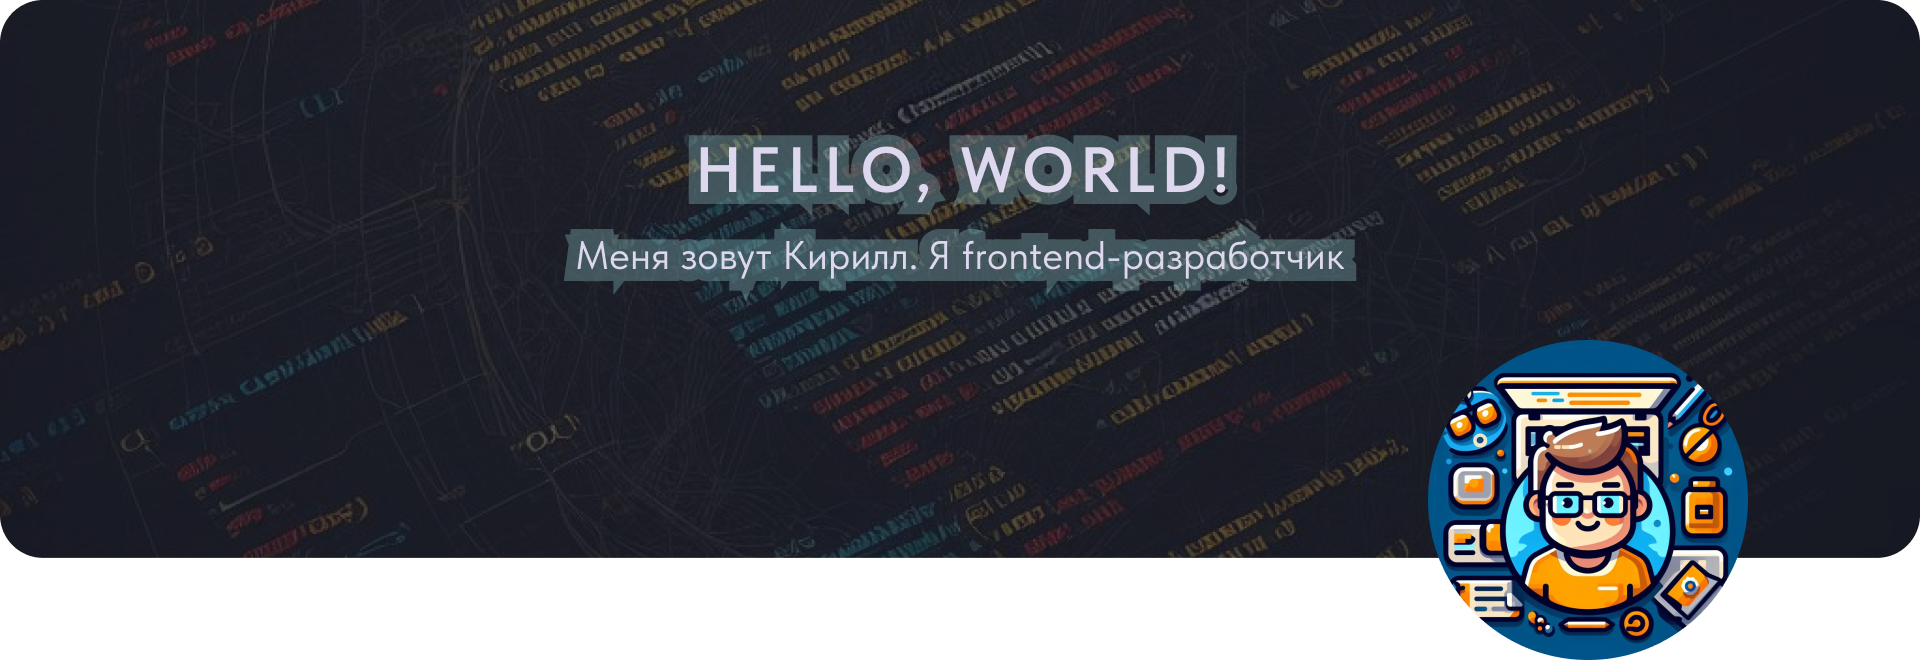
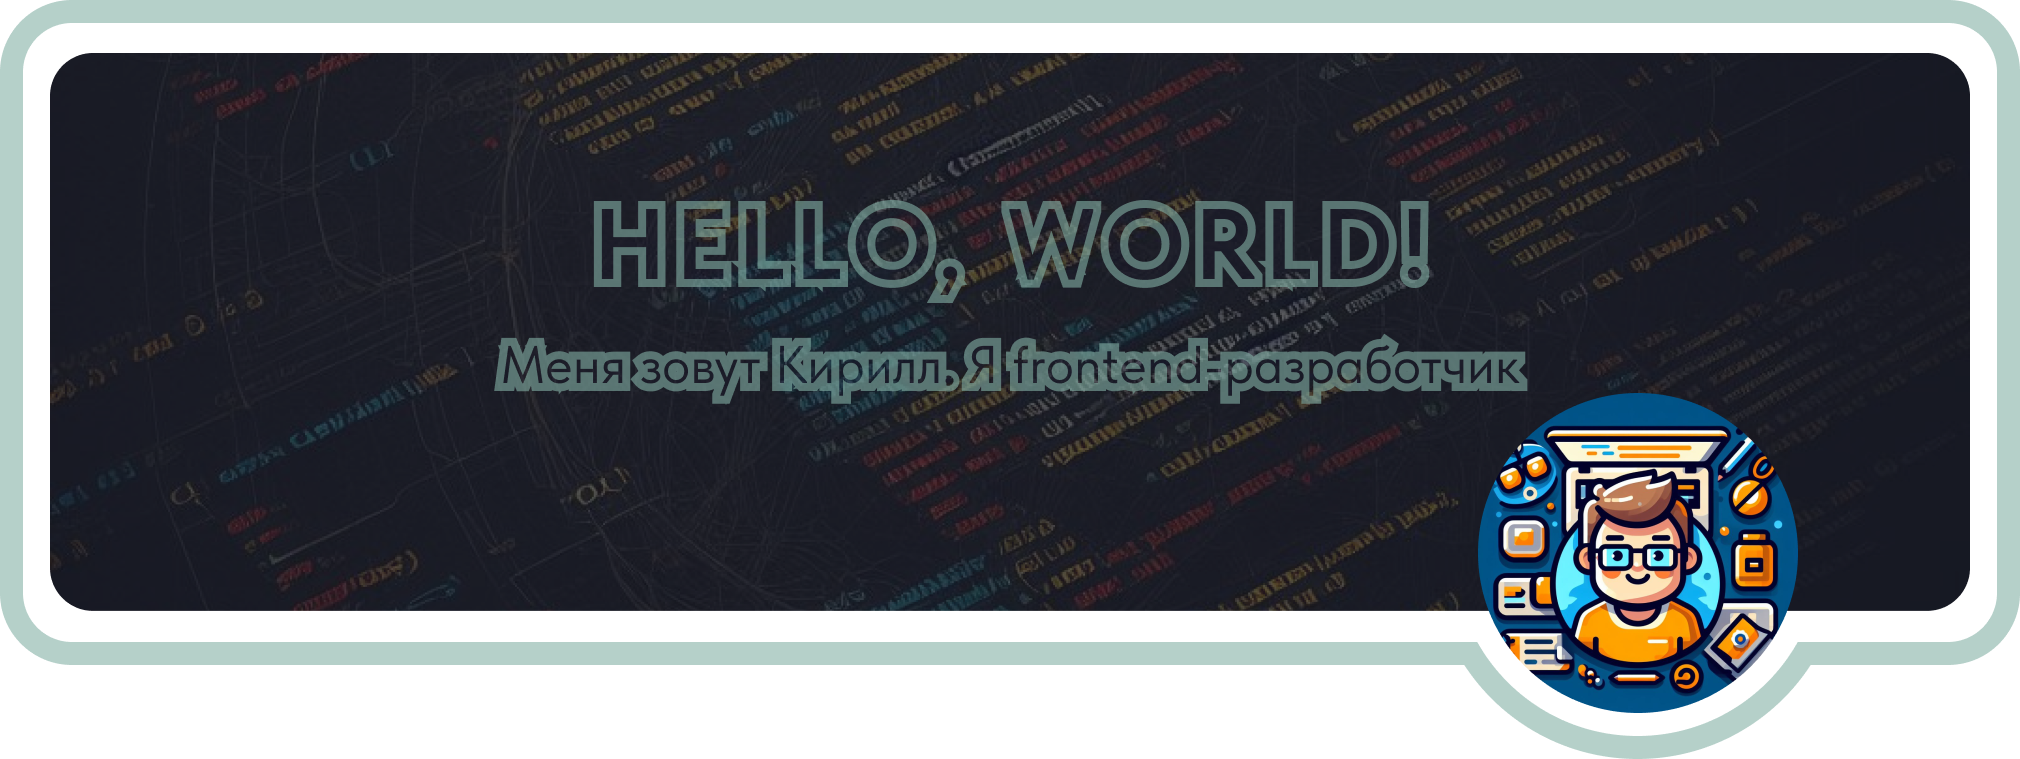
fix: cover

diff --git a/README.md b/README.md
@@ -1,16 +1,3 @@
-
-[//]: # (<div style="padding: 0; margin: 0; top: 0; left: 0; background-color: rgba&#40;9, 3, 75&#41;; width: 100%; height: 240px; display: flex; flex-direction: column; align-items: center; justify-content: center; position: relative">)
-
-[//]: # (    <img alt="bg-cover" src="./_1416bd29-d279-4781-a8c7-41513367c51b.jpeg" style="width: 100%; height: 240px; object-fit: cover; position: absolute; opacity: .8">)
-
-[//]: # (    <img alt="avatar" src="_bad7445c-2d0d-4c01-872c-3181de2dbcc1.jpeg" style="border-radius: 50%; width: 120px; height: 120px; position: absolute; bottom: -40px; right: 90px;">)
-
-[//]: # (    <h1 style="text-align: center; font-weight: 600; color: lightblue; margin: 0;">HELLO, WORLD!</h1>)
-
-[//]: # (    <h3 style="text-align: center; color: lightblue; margin: 0; font-size: 16px; font-weight: 300">Меня зовут Кирилл. Я frontend-разработчик</h3>)
-
-[//]: # (</div>)
-
 ![Обложка профиля](cover-profile.png)
 
 ##### 💁🏻♂ О себе:
